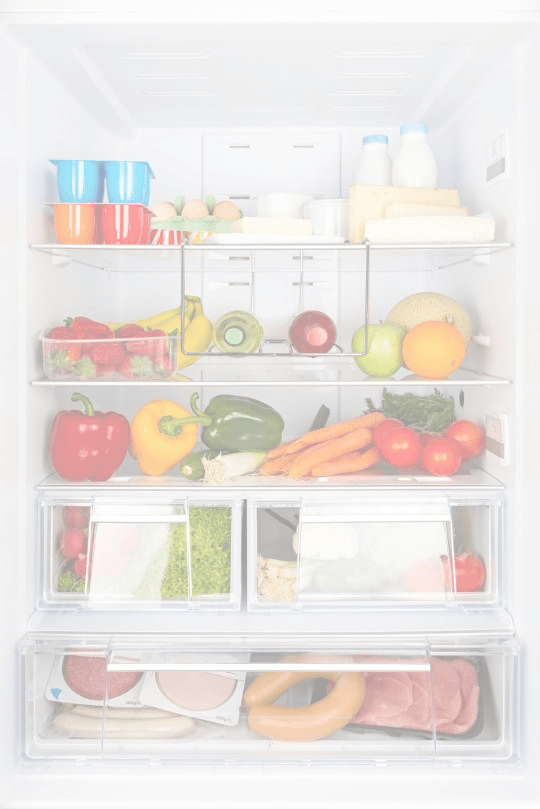
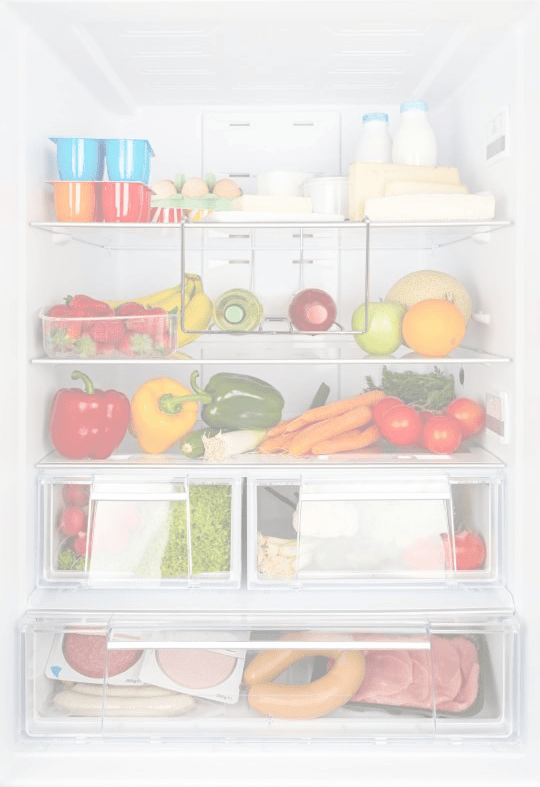
Added Load and new background

diff --git a/style.min.css b/style.min.css
@@ -1,1 +1,1 @@
-*{box-sizing:border-box;margin:0;padding:0}html{height:100%}body{background-image:url(img/fridge.png);background-size:cover;background-repeat:no-repeat;background-position:center;background-attachment:fixed;height:100vh}#home{display:grid;grid-template-columns:15% 70% 15%;grid-template-areas:". header ." ". nav .";margin:auto}#home header{grid-area:header;margin:10% 0 0}#home header .frontfridge{display:block;width:100%;max-height:450px;background-color:#8e5ecc;padding:10%;border-radius:50%;border:none;filter:invert(100%);margin-bottom:10%}#home nav{grid-area:nav}#home nav button{border:none;border-radius:20px;background-color:#71a133;text-align:center;width:100%;margin:6% 0 0;padding:4% 5%;color:#fff;font-family:"Yu Gothic UI Light",sans-serif;font-size:1.5em}#your-fridge{background-color:rgba(229,251,201,.7);display:none;grid-template-columns:25% 25% 25% 25%;grid-template-rows:auto;grid-template-areas:"header header header header" "main main main main" "footer footer footer footer"}#your-fridge header{position:fixed;grid-area:header;background-color:#d0f79e;width:100%;padding:2% 0;display:flex;justify-content:space-between}#your-fridge header button{width:20%;border:none;background-color:transparent;font-size:1.7em}#your-fridge header h1{font-size:2.1em;font-family:"Century Gothic",sans-serif;text-align:center;color:#71a133}#your-fridge .fridge{grid-area:main;padding-top:60px;font-size:1.5em;font-family:"Yu Gothic UI Light",sans-serif;height:100vh}#your-fridge .fridge p{display:grid;grid-template-columns:1fr 3fr 3fr .7fr .7fr;grid-template-rows:auto;grid-template-areas:"first second time add no";padding:3% 10% 0;width:100vw;word-break:break-all}#your-fridge .fridge .amountFridge{grid-area:first}#your-fridge .fridge .titleFridge{grid-area:second}#your-fridge .fridge time{grid-area:time;text-align:center}#your-fridge .fridge .s-list{grid-area:add}#your-fridge .fridge .no{grid-area:no;color:red}#your-fridge .fridge button{background-color:transparent;border:none;font-size:1em;font-weight:700}#your-fridge #modal{display:none;position:fixed;z-index:1;padding-top:100px;left:0;top:0;width:100%;height:100%;overflow:auto;background-color:rgba(0,0,0,.4)}#your-fridge #modal .modal-content{background-color:#fefefe;margin:auto;border:1px solid #888;width:80%;display:flex;flex-direction:column;background-color:#f4fce9}#your-fridge #modal .modal-content header{padding-left:5%;position:relative}#your-fridge #modal .modal-content header .close{color:red;float:right;font-size:1.7em;font-weight:700}#your-fridge #modal .modal-content .indhold{margin:5%}#your-fridge #modal .modal-content .stepper{width:100%;margin:0 auto}#your-fridge #modal .modal-content .stepper input{display:block;width:70%;margin:2% auto;box-sizing:border-box;background-color:rgba(229,251,201,.7);border:1px solid #d0f79e;font-family:"Yu Gothic UI Light",sans-serif;font-size:1.5em;text-align:center;transition:width 1s ease-in-out}#your-fridge #modal .modal-content .stepper input:focus{margin:0 auto;width:100%;background-position:left}#your-fridge #modal .modal-content .btn{width:100%;height:auto;margin:auto}#your-fridge #modal .modal-content .btn .list{border:none;background-color:transparent;font-size:3.5em;width:100%;height:70px;margin-top:5%}#your-fridge footer{grid-area:footer;position:fixed;bottom:3%;width:100%;display:flex;justify-content:center}#your-fridge footer button{background-color:#71a133;border:none;border-radius:50%;color:#fff;padding:16px 20px;font-size:20px;cursor:pointer}#your-fridge #modalFridge{display:none;position:fixed;z-index:1;padding-top:100px;left:0;top:0;width:100%;height:100%;overflow:auto;background-color:rgba(0,0,0,.4)}#your-fridge #modalFridge .modal-content{margin:auto;border:1px solid #888;width:80%;display:flex;flex-direction:column;background-color:#f4fce9}#your-fridge #modalFridge .modal-content header{padding-left:5%;position:relative}#your-fridge #modalFridge .modal-content .indhold{margin:5%}#your-fridge #modalFridge .modal-content .search{width:100%;margin:0 auto}#your-fridge #modalFridge .modal-content .search input{display:block;width:70%;margin:2% auto;box-sizing:border-box;background-color:rgba(229,251,201,.7);border:1px solid #d0f79e;font-family:"Yu Gothic UI Light",sans-serif;font-size:1.5em;text-align:center;transition:width 1s ease-in-out}#your-fridge #modalFridge .modal-content .search input[type=date]{transition:width 0;text-align:center}#your-fridge #modalFridge .modal-content .search input:focus{margin:0 auto;width:100%;background-position:left}#your-fridge #modalFridge .modal-content .btn{width:100%;height:auto;margin:auto}#your-fridge #modalFridge .modal-content .btn .fridgeModal{border:none;background-color:transparent;background-image:url(img/iconTo.png);background-size:contain;background-repeat:no-repeat;background-position:center;width:100%;height:70px;margin:5% 0}#your-fridge #modalFridge .luk{color:red;float:right;font-size:1.7em;font-weight:700}#add-food{display:none;grid-template-columns:15% 70% 15%;grid-template-areas:"header header header" "main main main"}#add-food header{grid-area:header;background-color:#d0f79e;width:100%;padding:2% 0;display:flex;justify-content:space-between}#add-food header button{width:20%;border:none;background-color:transparent;font-size:1.7em}#add-food header h1{font-size:2.1em;font-family:"Century Gothic",sans-serif;text-align:center;color:#71a133}#add-food .searchbar{width:20%}#add-food .searchbar input[type=text]{display:block;float:right;width:100%;box-sizing:border-box;font-size:1.5em;border:none;background-image:url(img/search.png);background-position:left;background-repeat:no-repeat;background-size:contain;background-color:#d0f79e;height:40px}#shopping-list{background-color:rgba(229,251,201,.7);display:none;grid-template-columns:25% 25% 25% 25%;grid-template-rows:auto;grid-template-areas:"header header header header" "main main main main" "footer footer footer footer"}#shopping-list header{position:fixed;grid-area:header;background-color:#d0f79e;width:100%;padding:2% 0;display:flex;justify-content:space-between}#shopping-list header button{width:20%;border:none;background-color:transparent;font-size:1.7em}#shopping-list header h1{font-size:2.1em;font-family:"Century Gothic",sans-serif;text-align:center;color:#71a133}#shopping-list header #go-fridge{background-image:url(img/icon.png);background-size:contain;background-repeat:no-repeat;background-position:center;height:30px;margin:auto 0}#shopping-list .shopping{grid-area:main;padding-top:60px;font-size:1.5em;font-family:"Yu Gothic UI Light",sans-serif;height:100vh}#shopping-list .shopping p{display:grid;grid-template-columns:.7fr 1fr 5fr .7fr;grid-template-rows:auto;grid-template-areas:"checkBox amountS titleS end";padding:3% 5% 0;width:100vw;word-break:break-all}#shopping-list .shopping .checkBox{grid-area:checkBox;width:60%;height:60%;margin:auto}#shopping-list .shopping .amountS{grid-area:amountS}#shopping-list .shopping .titleS{grid-area:titleS}#shopping-list .shopping .end{grid-area:end;color:red;background-color:transparent;border:none;font-size:1em;font-weight:700}#shopping-list #modalSendToFridge{display:none;position:fixed;z-index:1;padding-top:100px;left:0;top:0;width:100%;height:100%;overflow:auto;background-color:rgba(0,0,0,.4)}#shopping-list #modalSendToFridge .modal-content{margin:auto;border:1px solid #888;width:80%;display:flex;flex-direction:column;background-color:#f4fce9}#shopping-list #modalSendToFridge .modal-content header{padding-left:5%;position:relative}#shopping-list #modalSendToFridge .modal-content .indhold{margin:5%}#shopping-list #modalSendToFridge .modal-content .btn{width:100%;height:auto;margin:auto}#shopping-list #modalSendToFridge .modal-content .btn .fridgeModal{border:none;background-color:transparent;background-image:url(img/iconTo.png);background-size:contain;background-repeat:no-repeat;background-position:center;width:100%;height:70px;margin:5% 0}#shopping-list #modalSendToFridge .searchShopping{width:100%;margin:0 auto}#shopping-list #modalSendToFridge .searchShopping input{display:block;width:70%;margin:2% auto;box-sizing:border-box;background-color:rgba(229,251,201,.7);border:1px solid #d0f79e;font-family:"Yu Gothic UI Light",sans-serif;font-size:1.5em;text-align:center;transition:width 1s ease-in-out}#shopping-list #modalSendToFridge .searchShopping input:focus{margin:0 auto;width:100%;background-position:left}#shopping-list #modalSendToFridge .closeModalShopping{color:red}#shopping-list footer{grid-area:footer;position:fixed;bottom:3%;width:100%;display:flex;justify-content:center}#shopping-list footer button{background-color:#71a133;border:none;border-radius:50%;color:#fff;padding:16px 20px;font-size:20px;cursor:pointer}#shopping-list #modalShopping{display:none;position:fixed;z-index:1;padding-top:100px;left:0;top:0;width:100%;height:100%;overflow:auto;background-color:rgba(0,0,0,.4)}#shopping-list #modalShopping .modal-content{margin:auto;border:1px solid #888;width:80%;display:flex;flex-direction:column;background-color:#f4fce9}#shopping-list #modalShopping .modal-content header{padding-left:5%;position:relative}#shopping-list #modalShopping .modal-content .indhold{margin:5%}#shopping-list #modalShopping .modal-content .searchShopping{width:100%;margin:auto 0}#shopping-list #modalShopping .modal-content .searchShopping input{width:100%;background-color:rgba(229,251,201,.7);border:1px solid #d0f79e;text-align:center;font-family:"Yu Gothic UI Light",sans-serif;font-size:1.5em}#shopping-list #modalShopping .modal-content .btn{width:100%;height:auto;margin:auto}#shopping-list #modalShopping .modal-content .btn .list{border:none;background-color:transparent;font-size:3.5em;width:100%;height:70px;margin-top:5%}#shopping-list #modalShopping .searchShopping{width:100%;margin:0 auto}#shopping-list #modalShopping .searchShopping input{display:block;width:70%;margin:2% auto;box-sizing:border-box;background-color:rgba(229,251,201,.7);border:1px solid #d0f79e;font-family:"Yu Gothic UI Light",sans-serif;font-size:1.5em;text-align:center;transition:width 1s ease-in-out}#shopping-list #modalShopping .searchShopping input:focus{margin:0 auto;width:100%;background-position:left}#shopping-list #modalShopping .lukEt{color:red}#load{display:none;margin-top:25%}#load img{display:block;width:80%;margin:auto}#load p{margin-top:10%;font-family:"Yu Gothic UI Light",sans-serif;font-size:4em;text-align:center;padding:0 2%;word-break:break-all}#error{display:none}#error p{font-family:"Yu Gothic UI Light",sans-serif;font-size:4em}#error h1{font-family:"Century Gothic",sans-serif;width:100%;font-size:5em}#error .mainheader{background-color:#d0f79e;color:#71a133;width:100%;text-align:center;padding-bottom:20px;padding-top:20px;position:relative}#error body{position:absolute;top:50%;left:50%;margin-right:-50%;transform:translate(-50%,-50%);width:100%;height:100%}#error img{width:100%;margin-bottom:90px;margin-top:100px}#error section{height:100%}.intro-modal{display:block;position:absolute;z-index:1;padding-top:20px;left:0;top:0;width:100%;height:100%;overflow:scroll;background-color:rgba(0,0,0,.4)}.intro-modal .modal-content{background-color:#fefefe;margin:auto;border:1px solid #888;width:90%;background-color:#f4fce9}.intro-modal .modal-content .introLuk{color:red;font-weight:700}.intro-modal .modal-content header{padding:1% 5%;position:relative;background-color:#d0f79e;text-align:center;color:#71a133;font-family:"Century Gothic",sans-serif;font-size:1.8em}.intro-modal .modal-content header .introLuk{margin:-12px -25px auto auto;background-color:#defbb7;border-color:#a4b987;border-radius:50%;padding:7px 10px;float:right;font-size:30px}.intro-modal .modal-content .indhold{margin:5%}.intro-modal .modal-content .indhold p{margin:4%;font-family:"Yu Gothic UI Light",sans-serif;font-size:1.4em}.intro-modal .modal-content .btnPlus{background-color:#71a133;border:none;border-radius:50%;color:#fff;padding:8px 10px;font-size:16px;margin-bottom:-10px;cursor:pointer}.intro-modal .modal-content #fridgeLogo{width:10%;border:none;background-color:transparent;font-size:1.7em;background-image:url(img/icon.png);background-size:contain;background-repeat:no-repeat;background-position:center;height:40px}.intro-modal .modal-content .check{width:20px;height:20px}#enjoy section{display:flex;justify-content:space-between}#enjoy section .introLuk{border:none;background-color:transparent;font-size:40px;align-self:flex-end;margin:5px 8px}
+*{box-sizing:border-box;margin:0;padding:0}html{height:100%}body{background-image:url(img/fridge.png);background-size:cover;background-repeat:no-repeat;background-position:center;background-attachment:fixed;height:100vh}#home{display:grid;grid-template-columns:15% 70% 15%;grid-template-areas:". header ." ". nav .";margin:auto}#home header{grid-area:header;margin:10% 0 0}#home header .frontfridge{display:block;width:100%;max-height:450px;background-color:#8e5ecc;padding:10%;border-radius:50%;border:none;filter:invert(100%);margin-bottom:10%}#home #help{position:fixed;font-size:2.3em;z-index:1;right:3%;top:1%;color:#71a133}#home nav{grid-area:nav}#home nav button{border:none;border-radius:20px;background-color:#71a133;text-align:center;width:100%;margin:6% 0 0;padding:4% 5%;color:#fff;font-family:"Yu Gothic UI Light",sans-serif;font-size:1.5em}#your-fridge{background-color:rgba(229,251,201,.7);display:none;grid-template-columns:25% 25% 25% 25%;grid-template-rows:auto;grid-template-areas:"header header header header" "main main main main" "footer footer footer footer"}#your-fridge header{position:fixed;grid-area:header;background-color:#d0f79e;width:100%;padding:2% 0;display:flex;justify-content:space-between}#your-fridge header button{width:20%;border:none;background-color:transparent;font-size:1.7em}#your-fridge header h1{font-size:2.1em;font-family:"Century Gothic",sans-serif;text-align:center;color:#71a133}#your-fridge .fridge{grid-area:main;padding-top:60px;font-size:1.5em;font-family:"Yu Gothic UI Light",sans-serif;height:100vh}#your-fridge .fridge p{display:grid;grid-template-columns:1fr 3fr 3fr .7fr .7fr;grid-template-rows:auto;grid-template-areas:"first second time add no";padding:3% 10% 0;width:100vw;word-break:break-all}#your-fridge .fridge .amountFridge{grid-area:first}#your-fridge .fridge .titleFridge{grid-area:second}#your-fridge .fridge time{grid-area:time;text-align:center}#your-fridge .fridge .s-list{grid-area:add}#your-fridge .fridge .no{grid-area:no;color:red}#your-fridge .fridge button{background-color:transparent;border:none;font-size:1em;font-weight:700}#your-fridge #modal{display:none;position:fixed;z-index:1;padding-top:100px;left:0;top:0;width:100%;height:100%;overflow:auto;background-color:rgba(0,0,0,.4)}#your-fridge #modal .modal-content{background-color:#fefefe;margin:auto;border:1px solid #888;width:80%;display:flex;flex-direction:column;background-color:#f4fce9}#your-fridge #modal .modal-content header{padding-left:5%;position:relative}#your-fridge #modal .modal-content header .close{color:red;float:right;font-size:1.7em;font-weight:700}#your-fridge #modal .modal-content .indhold{margin:5%}#your-fridge #modal .modal-content .stepper{width:100%;margin:0 auto}#your-fridge #modal .modal-content .stepper input{display:block;width:70%;margin:2% auto;box-sizing:border-box;background-color:rgba(229,251,201,.7);border:1px solid #d0f79e;font-family:"Yu Gothic UI Light",sans-serif;font-size:1.5em;text-align:center;transition:width 1s ease-in-out}#your-fridge #modal .modal-content .stepper input:focus{margin:0 auto;width:100%;background-position:left}#your-fridge #modal .modal-content .btn{width:100%;height:auto;margin:auto}#your-fridge #modal .modal-content .btn .list{border:none;background-color:transparent;font-size:3.5em;width:100%;height:70px;margin-top:5%}#your-fridge footer{grid-area:footer;position:fixed;bottom:3%;width:100%;display:flex;justify-content:center}#your-fridge footer button{background-color:#71a133;border:none;border-radius:50%;color:#fff;padding:16px 20px;font-size:20px;cursor:pointer}#your-fridge #modalFridge{display:none;position:fixed;z-index:1;padding-top:100px;left:0;top:0;width:100%;height:100%;overflow:auto;background-color:rgba(0,0,0,.4)}#your-fridge #modalFridge .modal-content{margin:auto;border:1px solid #888;width:80%;display:flex;flex-direction:column;background-color:#f4fce9}#your-fridge #modalFridge .modal-content header{padding-left:5%;position:relative}#your-fridge #modalFridge .modal-content .indhold{margin:5%}#your-fridge #modalFridge .modal-content .search{width:100%;margin:0 auto}#your-fridge #modalFridge .modal-content .search input{display:block;width:70%;margin:2% auto;box-sizing:border-box;background-color:rgba(229,251,201,.7);border:1px solid #d0f79e;font-family:"Yu Gothic UI Light",sans-serif;font-size:1.5em;text-align:center;transition:width 1s ease-in-out}#your-fridge #modalFridge .modal-content .search input[type=date]{transition:width 0;text-align:center}#your-fridge #modalFridge .modal-content .search input:focus{margin:0 auto;width:100%;background-position:left}#your-fridge #modalFridge .modal-content .btn{width:100%;height:auto;margin:auto}#your-fridge #modalFridge .modal-content .btn .fridgeModal{border:none;background-color:transparent;background-image:url(img/iconTo.png);background-size:contain;background-repeat:no-repeat;background-position:center;width:100%;height:70px;margin:5% 0}#your-fridge #modalFridge .luk{color:red;float:right;font-size:1.7em;font-weight:700}#add-food{display:none;grid-template-columns:15% 70% 15%;grid-template-areas:"header header header" "main main main"}#add-food header{grid-area:header;background-color:#d0f79e;width:100%;padding:2% 0;display:flex;justify-content:space-between}#add-food header button{width:20%;border:none;background-color:transparent;font-size:1.7em}#add-food header h1{font-size:2.1em;font-family:"Century Gothic",sans-serif;text-align:center;color:#71a133}#add-food .searchbar{width:20%}#add-food .searchbar input[type=text]{display:block;float:right;width:100%;box-sizing:border-box;font-size:1.5em;border:none;background-image:url(img/search.png);background-position:left;background-repeat:no-repeat;background-size:contain;background-color:#d0f79e;height:40px}#shopping-list{background-color:rgba(229,251,201,.7);display:none;grid-template-columns:25% 25% 25% 25%;grid-template-rows:auto;grid-template-areas:"header header header header" "main main main main" "footer footer footer footer"}#shopping-list header{position:fixed;grid-area:header;background-color:#d0f79e;width:100%;padding:2% 0;display:flex;justify-content:space-between}#shopping-list header button{width:20%;border:none;background-color:transparent;font-size:1.7em}#shopping-list header h1{font-size:2.1em;font-family:"Century Gothic",sans-serif;text-align:center;color:#71a133}#shopping-list header #go-fridge{background-image:url(img/icon.png);background-size:contain;background-repeat:no-repeat;background-position:center;height:30px;margin:auto 0}#shopping-list .shopping{grid-area:main;padding-top:60px;font-size:1.5em;font-family:"Yu Gothic UI Light",sans-serif;height:100vh}#shopping-list .shopping p{display:grid;grid-template-columns:.7fr 1fr 5fr .7fr;grid-template-rows:auto;grid-template-areas:"checkBox amountS titleS end";padding:3% 5% 0;width:100vw;word-break:break-all}#shopping-list .shopping .checkBox{grid-area:checkBox;width:60%;height:60%;margin:auto}#shopping-list .shopping .amountS{grid-area:amountS}#shopping-list .shopping .titleS{grid-area:titleS}#shopping-list .shopping .end{grid-area:end;color:red;background-color:transparent;border:none;font-size:1em;font-weight:700}#shopping-list #modalSendToFridge{display:none;position:fixed;z-index:1;padding-top:100px;left:0;top:0;width:100%;height:100%;overflow:auto;background-color:rgba(0,0,0,.4)}#shopping-list #modalSendToFridge .modal-content{margin:auto;border:1px solid #888;width:80%;display:flex;flex-direction:column;background-color:#f4fce9}#shopping-list #modalSendToFridge .modal-content header{padding-left:5%;position:relative}#shopping-list #modalSendToFridge .modal-content .indhold{margin:5%}#shopping-list #modalSendToFridge .modal-content .btn{width:100%;height:auto;margin:auto}#shopping-list #modalSendToFridge .modal-content .btn .fridgeModal{border:none;background-color:transparent;background-image:url(img/iconTo.png);background-size:contain;background-repeat:no-repeat;background-position:center;width:100%;height:70px;margin:5% 0}#shopping-list #modalSendToFridge .searchShopping{width:100%;margin:0 auto}#shopping-list #modalSendToFridge .searchShopping input{display:block;width:70%;margin:2% auto;box-sizing:border-box;background-color:rgba(229,251,201,.7);border:1px solid #d0f79e;font-family:"Yu Gothic UI Light",sans-serif;font-size:1.5em;text-align:center;transition:width 1s ease-in-out}#shopping-list #modalSendToFridge .searchShopping input:focus{margin:0 auto;width:100%;background-position:left}#shopping-list #modalSendToFridge .closeModalShopping{color:red}#shopping-list footer{grid-area:footer;position:fixed;bottom:3%;width:100%;display:flex;justify-content:center}#shopping-list footer button{background-color:#71a133;border:none;border-radius:50%;color:#fff;padding:16px 20px;font-size:20px;cursor:pointer}#shopping-list #modalShopping{display:none;position:fixed;z-index:1;padding-top:100px;left:0;top:0;width:100%;height:100%;overflow:auto;background-color:rgba(0,0,0,.4)}#shopping-list #modalShopping .modal-content{margin:auto;border:1px solid #888;width:80%;display:flex;flex-direction:column;background-color:#f4fce9}#shopping-list #modalShopping .modal-content header{padding-left:5%;position:relative}#shopping-list #modalShopping .modal-content .indhold{margin:5%}#shopping-list #modalShopping .modal-content .searchShopping{width:100%;margin:auto 0}#shopping-list #modalShopping .modal-content .searchShopping input{width:100%;background-color:rgba(229,251,201,.7);border:1px solid #d0f79e;text-align:center;font-family:"Yu Gothic UI Light",sans-serif;font-size:1.5em}#shopping-list #modalShopping .modal-content .btn{width:100%;height:auto;margin:auto}#shopping-list #modalShopping .modal-content .btn .list{border:none;background-color:transparent;font-size:3.5em;width:100%;height:70px;margin-top:5%}#shopping-list #modalShopping .searchShopping{width:100%;margin:0 auto}#shopping-list #modalShopping .searchShopping input{display:block;width:70%;margin:2% auto;box-sizing:border-box;background-color:rgba(229,251,201,.7);border:1px solid #d0f79e;font-family:"Yu Gothic UI Light",sans-serif;font-size:1.5em;text-align:center;transition:width 1s ease-in-out}#shopping-list #modalShopping .searchShopping input:focus{margin:0 auto;width:100%;background-position:left}#shopping-list #modalShopping .lukEt{color:red}#load{display:none;margin-top:25%}#load img{display:block;width:80%;margin:auto}#load p{margin-top:10%;font-family:"Yu Gothic UI Light",sans-serif;font-size:4em;text-align:center;padding:0 2%;word-break:break-all}#error{display:none}#error p{font-family:"Yu Gothic UI Light",sans-serif;font-size:4em}#error h1{font-family:"Century Gothic",sans-serif;width:100%;font-size:5em}#error .mainheader{background-color:#d0f79e;color:#71a133;width:100%;text-align:center;padding-bottom:20px;padding-top:20px;position:relative}#error body{position:absolute;top:50%;left:50%;margin-right:-50%;transform:translate(-50%,-50%);width:100%;height:100%}#error img{width:100%;margin-bottom:90px;margin-top:100px}#error section{height:100%}#modalIntro{display:none}.intro-modal{display:block;position:absolute;z-index:1;padding-top:20px;left:0;top:0;width:100%;height:100%;overflow:scroll;background-color:rgba(0,0,0,.4)}.intro-modal .modal-content{background-color:#fefefe;margin:auto;border:1px solid #888;width:90%;background-color:#f4fce9}.intro-modal .modal-content .introLuk{color:red;font-weight:700}.intro-modal .modal-content header{padding:1% 5%;position:relative;background-color:#d0f79e;text-align:center;color:#71a133;font-family:"Century Gothic",sans-serif;font-size:1.8em}.intro-modal .modal-content header .introLuk{margin:-12px -25px auto auto;background-color:#defbb7;border-color:#a4b987;border-radius:50%;padding:7px 10px;float:right;font-size:30px}.intro-modal .modal-content .indhold{margin:5%}.intro-modal .modal-content .indhold p{margin:4%;font-family:"Yu Gothic UI Light",sans-serif;font-size:1.4em}.intro-modal .modal-content .btnPlus{background-color:#71a133;border:none;border-radius:50%;color:#fff;padding:8px 10px;font-size:16px;margin-bottom:-10px;cursor:pointer}.intro-modal .modal-content #fridgeLogo{width:10%;border:none;background-color:transparent;font-size:1.7em;background-image:url(img/icon.png);background-size:contain;background-repeat:no-repeat;background-position:center;height:40px}.intro-modal .modal-content .check{width:20px;height:20px}#enjoy section{display:flex;justify-content:space-between}#enjoy section .introLuk{border:none;background-color:transparent;font-size:40px;align-self:flex-end;margin:5px 8px}

diff --git a/script.min.js b/script.min.js
@@ -9,13 +9,23 @@ btnSeeFridge.addEventListener('click', () => {
     document.getElementById("home").style.display = "none";
 });
 btnSeeItems.addEventListener('click', () => {
-    document.getElementById("add-food").style.display = "grid";
+    document.getElementById("load").style.display = "grid";
+               /*document.getElementById("add-food").style.display = "grid";*/
     document.getElementById("home").style.display = "none";
+    setTimeout(getAdd, 4000);
 });
+
+ function getAdd() {
+               document.getElementById("add-food").style.display = "grid";
+               document.getElementById("load").style.display = "none";
+           }
+
 btnSeeShopping.addEventListener('click', () => {
     document.getElementById("shopping-list").style.display = "grid";
     document.getElementById("home").style.display = "none";
 });
+
+
 
 /* BACK BUTTONS - TOP LEFT */
 var btnBack = document.getElementsByClassName("back");
@@ -129,15 +139,27 @@ window.addEventListener('click', () => {
 });
 
 /* MODAL BOX FOR INTRODUKTION*/
+
 //An array of elements
 var btnModal = document.getElementsByClassName("introLuk");
 
 function closeIntro() {
     document.getElementById("modalIntro").style.display = "none";
+    document.getElementById("help").style.display = "inherit"; 
 }
+
 for (var btn of btnModal) {
     btn.addEventListener('click', closeIntro);
 }
+
+ var btnHelp = document.getElementById("help");
+
+           btnHelp.addEventListener('click', () => {
+               document.getElementById("modalIntro").style.display = "block";
+               document.getElementById("help").style.display = "none";
+           })
+
+
 
 // --------- FRIDGE.JS HERE IS THE FRIDGE REGARDING FRIDGE.JS AND SAVEJSONFRIDGE.PHP ----------------//
 "use strict";
@@ -363,3 +385,19 @@ var objArrayShopping = new Array;
 window.addEventListener('load', initializeS);
 
 // --------- Hovedprogram Slut ----------------//
+
+
+
+
+/*https://stackoverflow.com/questions/16641329/how-to-detect-if-it-is-the-first-page-of-my-site-the-user-views*/
+           // this is the first time
+           if (!sessionStorage.noFirstVisit) {
+               // show the element
+               // and do the animation you want
+               document.getElementById('modalIntro').style.display = 'block';
+
+               // check this flag for escaping this if block next time
+               sessionStorage.noFirstVisit = "1";
+           }
+
+           //could also use localStorage which would store it longer in the browser and not just the tap.

diff --git a/style.css b/style.css
@@ -35,6 +35,13 @@ body {
       border: none;
       filter: invert(100%);
       margin-bottom: 10%; }
+  #home #help {
+    position: fixed;
+    font-size: 2.3em;
+    z-index: 1;
+    right: 3%;
+    top: 1%;
+    color: #71a133; }
   #home nav {
     grid-area: nav; }
     #home nav button {
@@ -570,6 +577,9 @@ body {
     margin-top: 100px; }
   #error section {
     height: 100%; }
+
+#modalIntro {
+  display: none; }
 
 .intro-modal {
   display: block;

diff --git a/style.scss b/style.scss
@@ -56,6 +56,15 @@ body {
         }
     }
 
+    #help {
+        position: fixed;
+        font-size: 2.3em;
+        z-index: 1;
+        right: 3%;
+        top: 1%;
+        color: #71a133;
+    }
+
     nav {
         grid-area: nav;
 
@@ -773,6 +782,10 @@ body {
     section {
         height: 100%;
     }
+}
+
+#modalIntro {
+    display: none;
 }
 
 .intro-modal {
